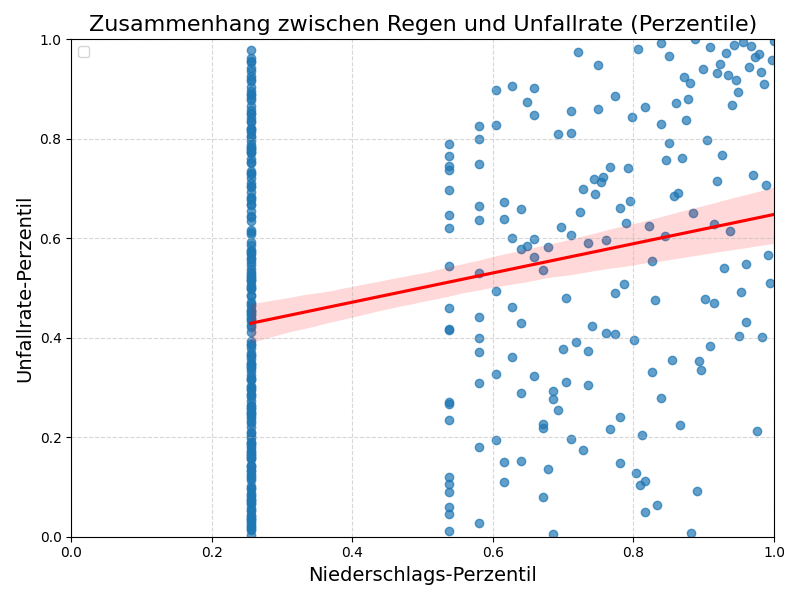
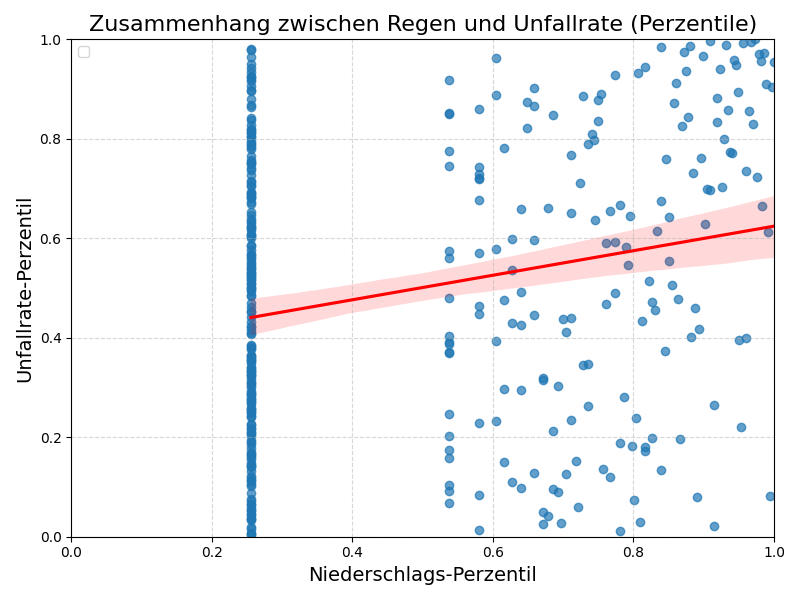
Adjust Query to only include Bike Accidents

diff --git a/02_analysis/insurance_bundles.py b/02_analysis/insurance_bundles.py
@@ -129,12 +129,20 @@ df['num_rides'] = df['num_rides'].fillna(0).astype(int)
 engine = create_engine("postgresql://postgres:axa_datascience@localhost:5432/nypd")
 
 # Query accidents per day
-temp = pd.read_sql("""
+temp = pd.read_sql(f"""
     SELECT 
         crash_date AS accident_date,
-        COUNT(*) AS num_accidents
+        COUNT(*) AS num_bike_accidents
     FROM collisions
-    WHERE crash_date >= '2024-01-01' AND crash_date < '2025-01-01'
+    WHERE crash_date >= '2024-01-01' 
+      AND crash_date < '2025-01-01'
+      AND (
+          vehicle_type_code_1 IN {bike_tuple} OR
+          vehicle_type_code_2 IN {bike_tuple} OR
+          vehicle_type_code_3 IN {bike_tuple} OR
+          vehicle_type_code_4 IN {bike_tuple} OR
+          vehicle_type_code_5 IN {bike_tuple}
+      )
     GROUP BY crash_date
     ORDER BY crash_date;
 """, con=engine)
@@ -154,10 +162,10 @@ df = df.merge(
 df = df.drop(columns=['accident_date'])
 
 # Fill missing accident days with 0
-df['num_accidents'] = df['num_accidents'].fillna(0).astype(int)
+df['num_bike_accidents'] = df['num_bike_accidents'].fillna(0).astype(int)
 
 # Create Accidents/Ride column
-df['accidents_per_ride'] = df['num_accidents'] / df['num_rides']
+df['accidents_per_ride'] = df['num_bike_accidents'] / df['num_rides']
 
 #%% Scatterplot
 # Scatter Plot
